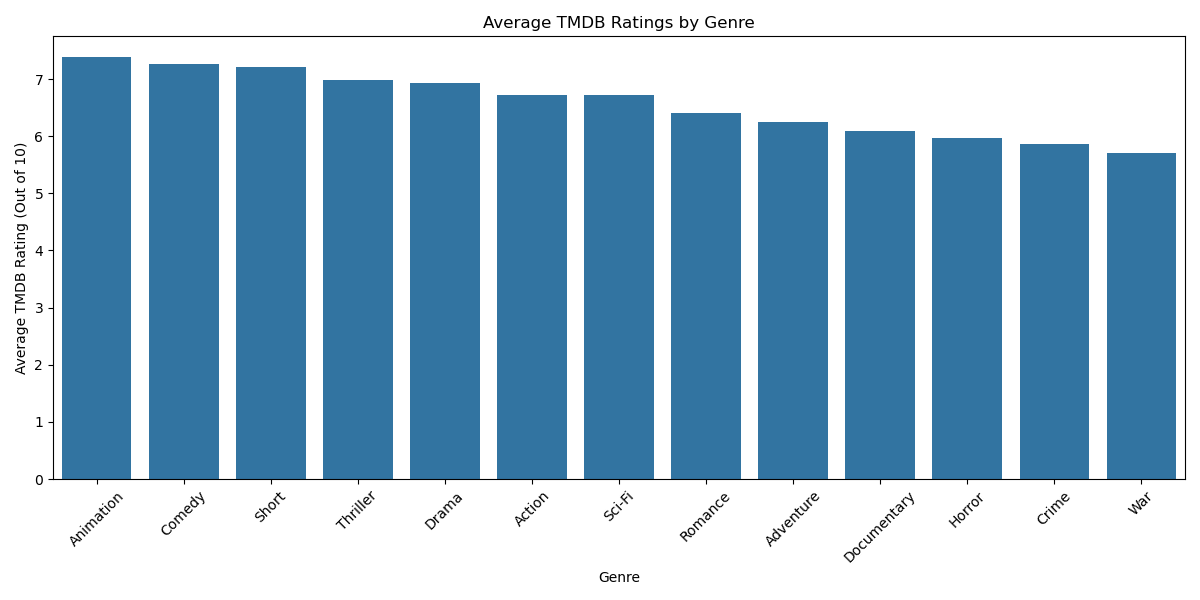
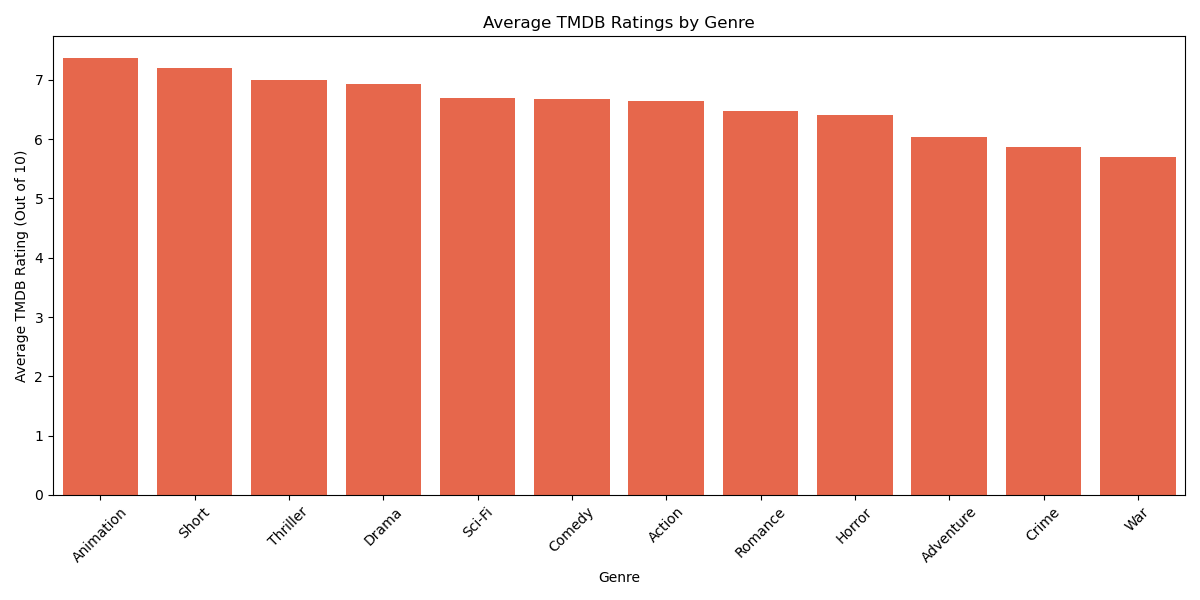
colors

diff --git a/visualizations.py b/visualizations.py
@@ -46,7 +46,7 @@ def plot_runtime_vs_genre(df):
     genre_runtime = filterdf.groupby('genre')['runtime'].mean().dropna().sort_values(ascending = False)
 
     plt.figure(figsize = (12, 6))
-    sns.barplot(x = genre_runtime.index, y = genre_runtime.values)
+    sns.barplot(x = genre_runtime.index, y = genre_runtime.values, color='skyblue')
 
     plt.xticks(rotation=45)
     plt.title('Average Movie Runtime by Genre')
@@ -64,7 +64,7 @@ def plot_ratings_vs_genre_bar(df):
     genre_ratings = df.groupby('genre')['tmdb_rating'].mean().dropna().sort_values(ascending = False)
 
     plt.figure(figsize = (12, 6))
-    sns.barplot(x = genre_ratings.index, y = genre_ratings.values)
+    sns.barplot(x = genre_ratings.index, y = genre_ratings.values, color='#FF5733')
 
     plt.xticks(rotation = 45)
     plt.title('Average TMDB Ratings by Genre')
@@ -82,7 +82,7 @@ def plot_rating_vs_genre_box(df):
     df = df[df['tmdb_rating'] > 0]
 
     plt.figure(figsize = (12, 6))
-    sns.boxplot(x = 'genre', y = 'tmdb_rating', data = df)
+    sns.boxplot(x = 'genre', y = 'tmdb_rating', data = df, color='lightgreen')
 
     plt.title('Distribution of TMDB Ratings by Genre')
     plt.xlabel('Genre')
@@ -128,7 +128,7 @@ def plot_avg_revenue_vs_genre_box(df):
     df = df[df['revenue'] > 0]
 
     plt.figure(figsize = (12, 6))
-    sns.boxplot(data = df, x = 'genre', y = 'revenue')
+    sns.boxplot(data = df, x = 'genre', y = 'revenue', color='#FFCC99')
 
     plt.title('Revenue by Genre')
     plt.xlabel('Genre')
